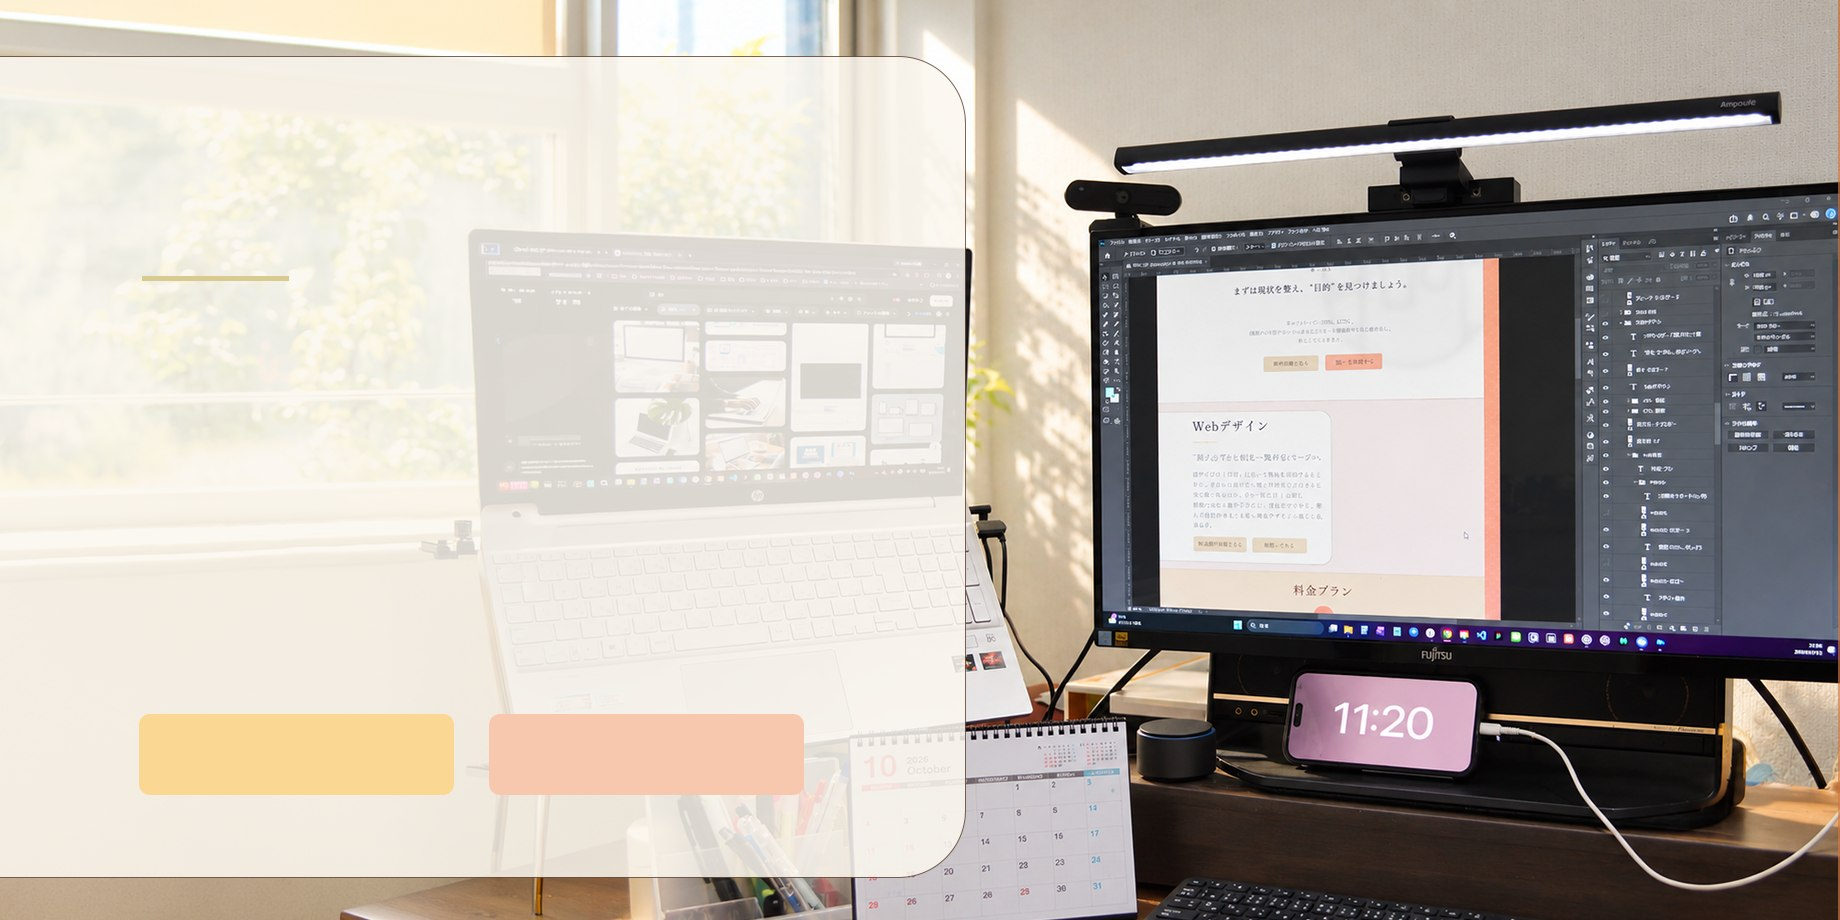
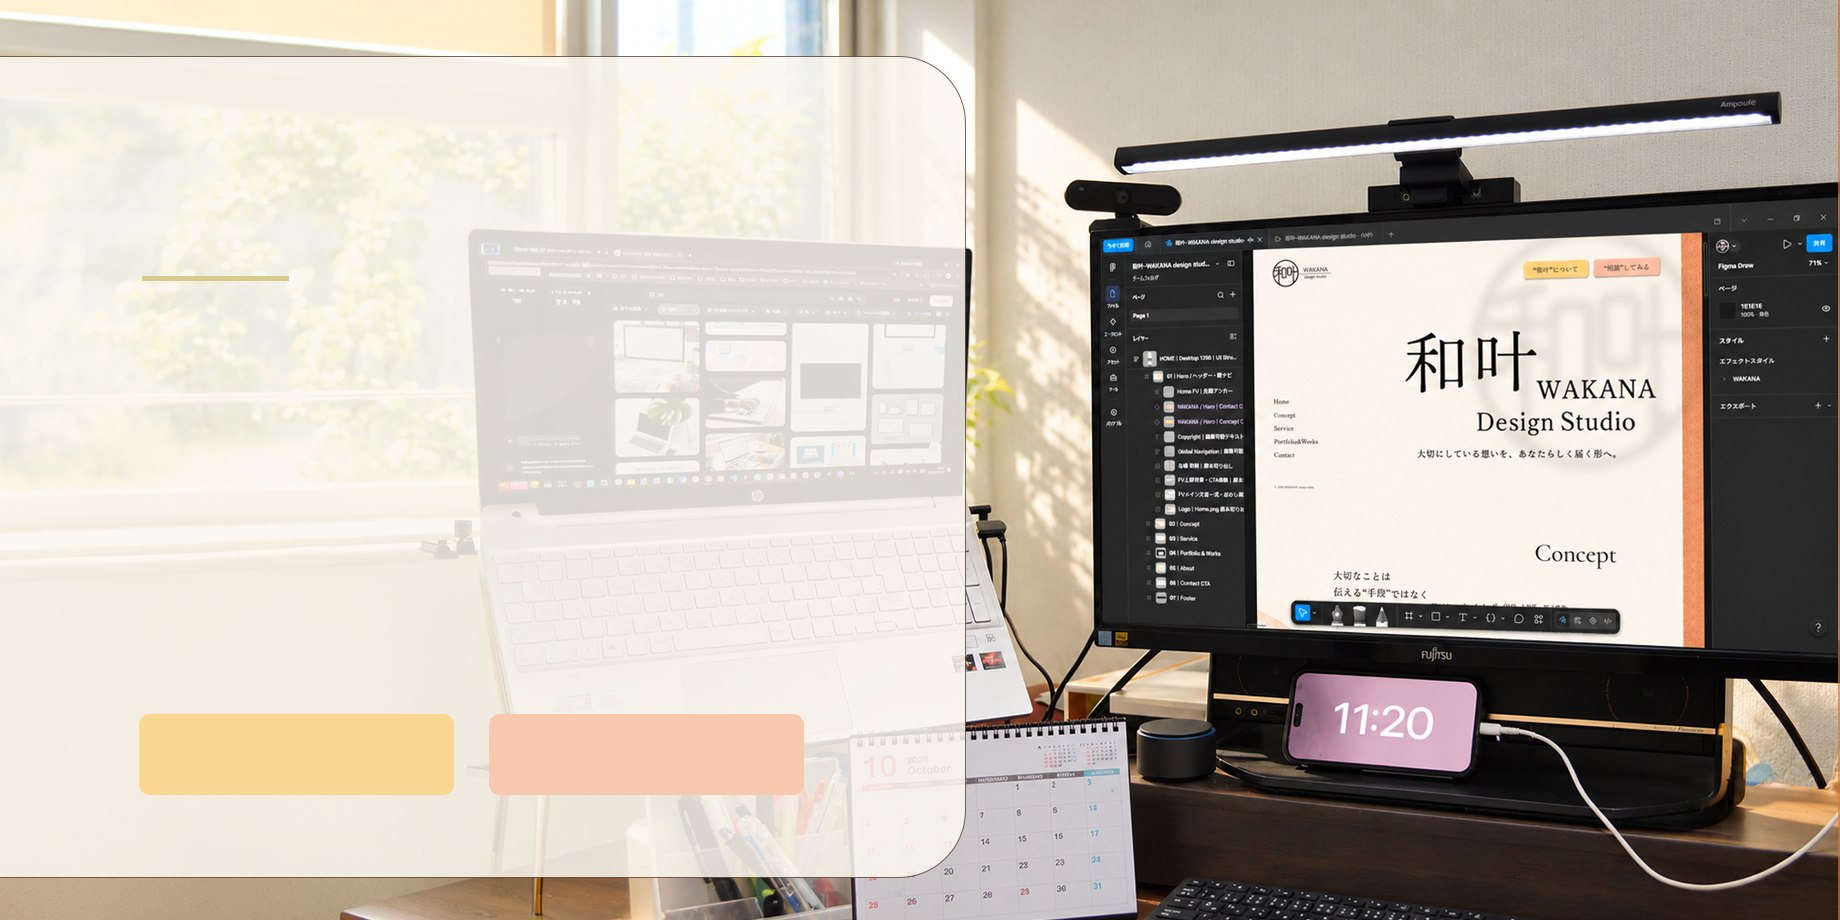
fix: correct service CTA overflow and unify monitor image

Changed region(s): [[0.5886, 0.213, 1.0, 0.7304]]

diff --git a/assets/css/service.css b/assets/css/service.css
@@ -83,6 +83,13 @@
 .sv-web .sv-ctas--sec { height: 48px; }
 .sv-dtp .sv-ctas--sec { height: 52px; }
 
+/* スマホのFV：ボタン行を中央揃えの縦並び（.sv-art--fv）の中で内容幅に縮めず、FVの内側（左右24px）いっぱいにする。
+   縮むとボタン幅が「文字幅に合わせた行幅」から逆算され（390pxで113.5px）、「“想い”を相談する」の文字が枠からはみ出していた。
+   これでボタンは390基準の165px（狭い画面では2つ並びのまま等分）になり、Web／DTPのボタン行と同じ幅になる（2026-11-19） */
+@media (max-width: 767.98px) {
+  .sv-ctas--fv { width: 100%; }
+}
+
 /* ---------- FV（293:548） ---------- */
 .sv-art--fv {
   display: flex;
